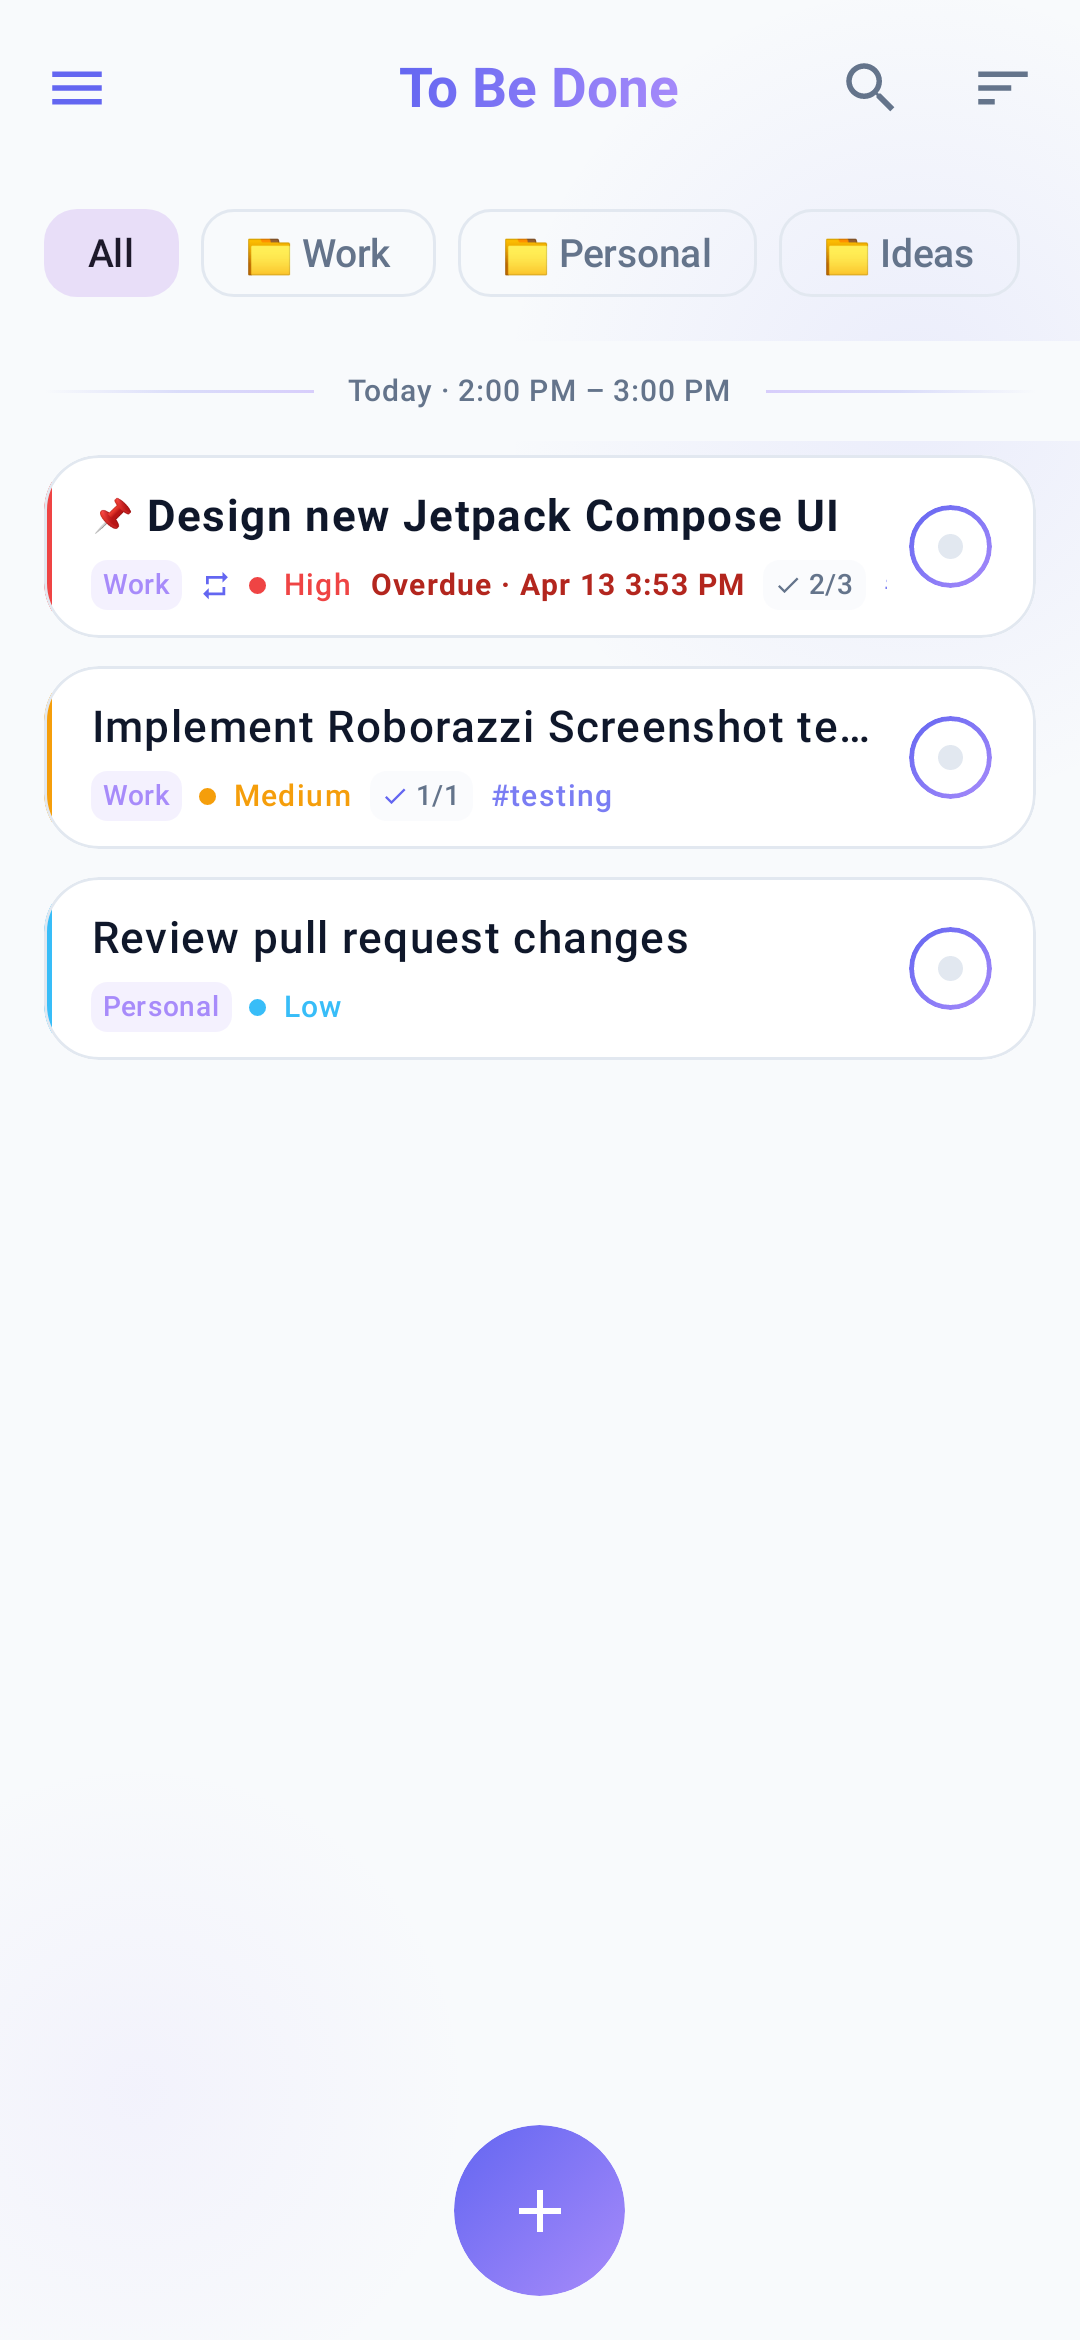
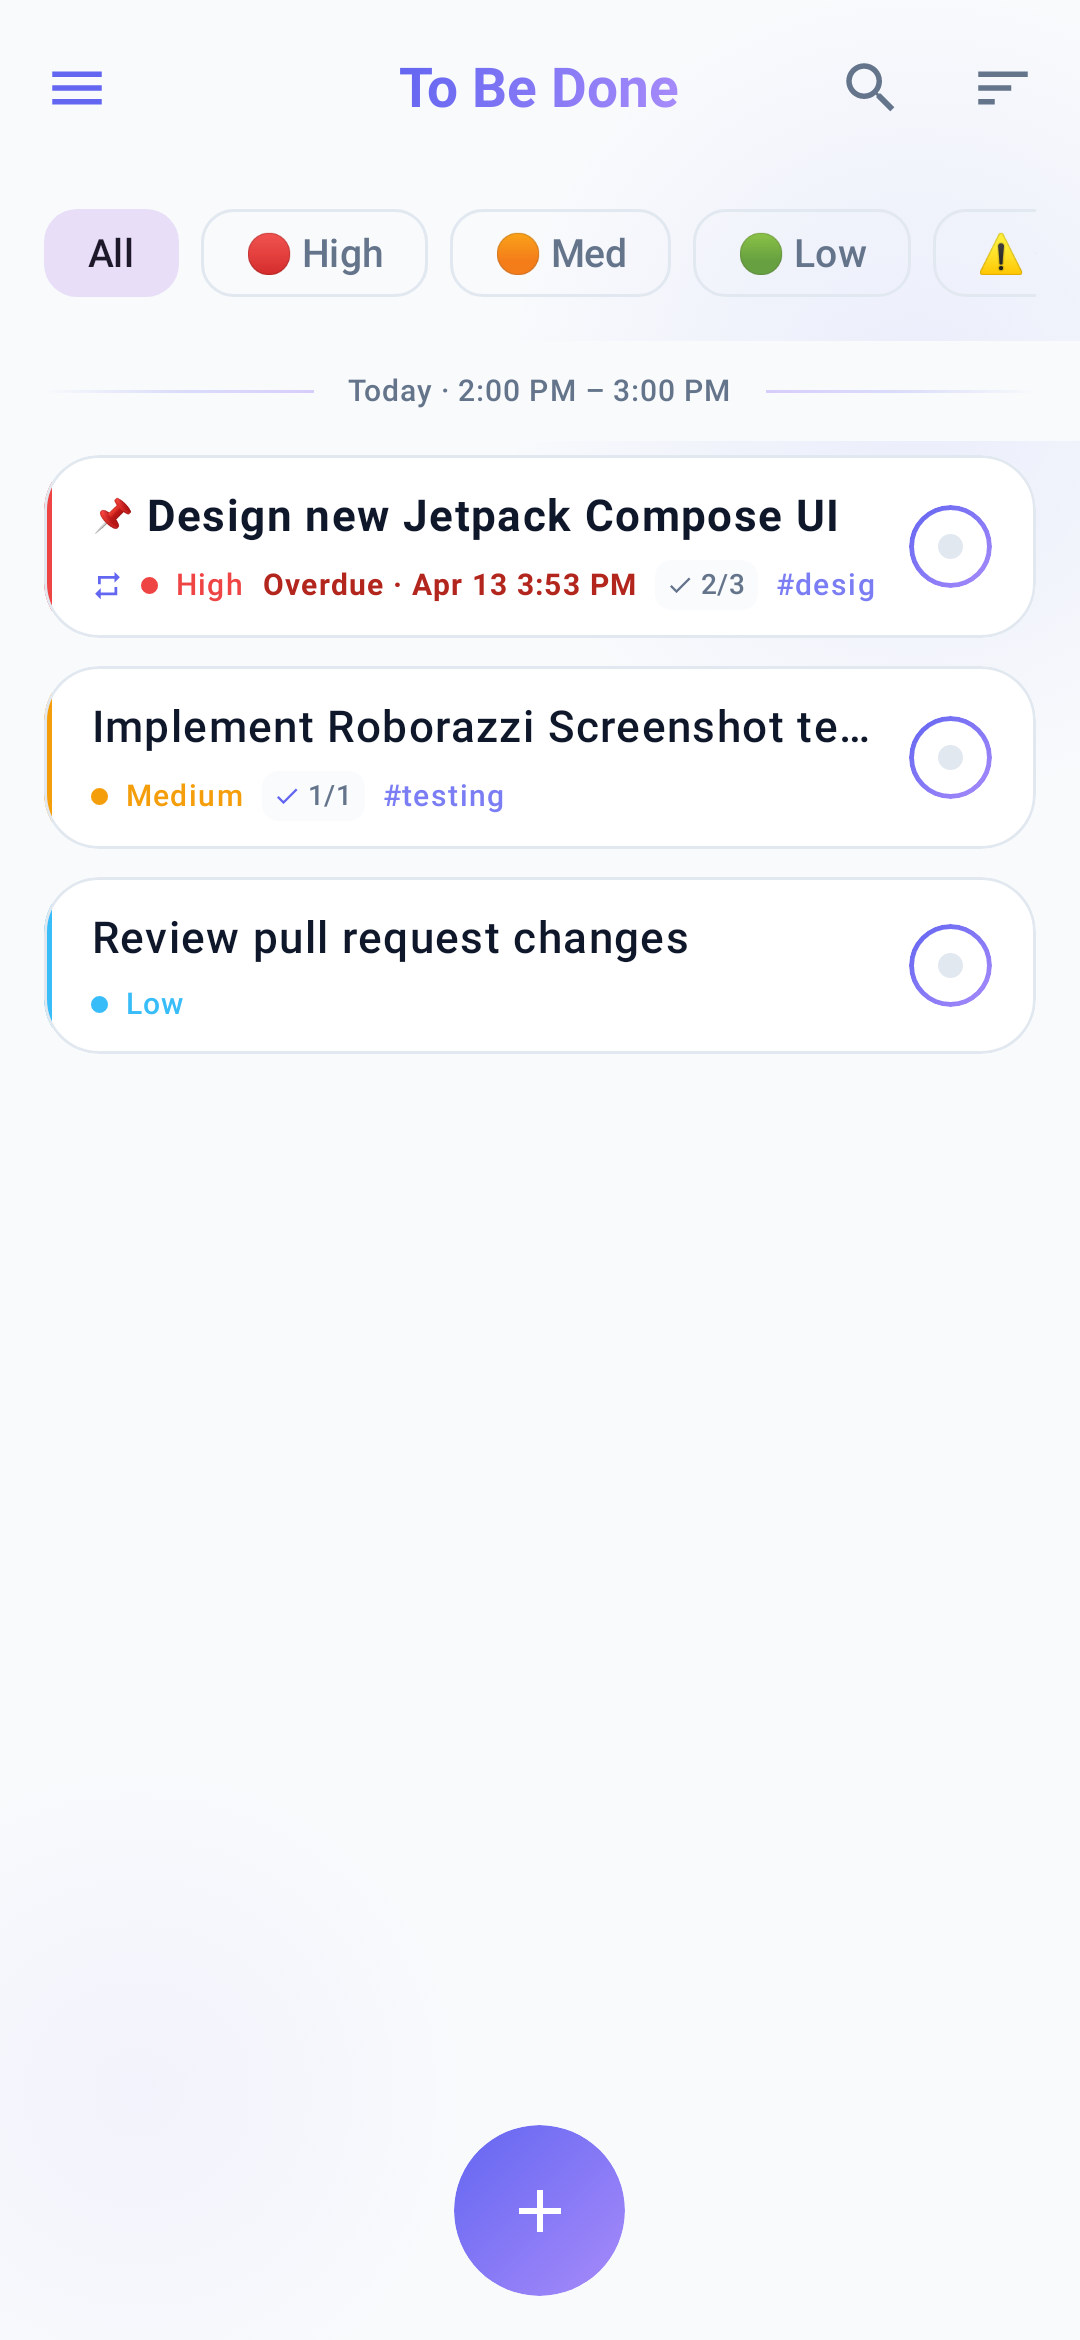
docs: update and shorten README for v3.0, add Toolbox & Debug screenshot tests

diff --git a/app/src/test/java/io/mns/base/app/ui/screenshot/ComposeScreenshotsTest.kt b/app/src/test/java/io/mns/base/app/ui/screenshot/ComposeScreenshotsTest.kt
@@ -392,5 +392,25 @@ class ComposeScreenshotsTest {
         }
         composeTestRule.onRoot().captureRoboImage("src/test/snapshots/images/todo_detail_readonly.png")
     }
+
+    @Test
+    fun testToolboxScreen() {
+        composeTestRule.setContent {
+            MTodoTheme(darkTheme = false) {
+                ToolboxScreen(onBack = {})
+            }
+        }
+        composeTestRule.onRoot().captureRoboImage("src/test/snapshots/images/toolbox_screen.png")
+    }
+
+    @Test
+    fun testDebugScreen() {
+        composeTestRule.setContent {
+            MTodoTheme(darkTheme = false) {
+                DebugScreen(onBack = {})
+            }
+        }
+        composeTestRule.onRoot().captureRoboImage("src/test/snapshots/images/debug_screen.png")
+    }
 }
 

diff --git a/README.md b/README.md
@@ -1,12 +1,12 @@
 # mTodo
 
-A modern, minimalist, and lightweight Todo app for Android built entirely with **Jetpack Compose** and **Material 3**.
+A modern, offline-first Todo and **100 Utilities Super App** for Android built with **Jetpack Compose** and **Material 3**.
 
 <p align="center">
   <img alt="GitHub Workflow Status" src="https://img.shields.io/github/actions/workflow/status/MehdiNosrati/mTodo/gradle-wrapper-validation.yml?branch=master&style=for-the-badge">
   <img alt="GitHub top language" src="https://img.shields.io/github/languages/top/MehdiNosrati/mTodo?style=for-the-badge">
   <img alt="GitHub release (latest by date)" src="https://img.shields.io/github/v/release/MehdiNosrati/mTodo?style=for-the-badge">
-  <img alt="Roborazzi Verified" src="https://img.shields.io/badge/Roborazzi-Screenshot%20Tests%20Verified-blue?style=for-the-badge">
+  <img alt="Roborazzi Verified" src="https://img.shields.io/badge/Roborazzi-20%20Screens%20Verified-blue?style=for-the-badge">
 </p>
 
 ---
@@ -14,117 +14,71 @@ A modern, minimalist, and lightweight Todo app for Android built entirely with *
 ## 📸 Screenshots
 
 <p align="center">
-  <img src="screens/home.png" width="270" alt="Home - Pinned Tasks, Categories, Voice Input & Multi-Select">
+  <img src="screens/home.png" width="270" alt="Home - Priority Filters, Pinned Tasks & Vertical Toolbox Tab">
   &nbsp;&nbsp;
-  <img src="screens/inline_add.png" width="270" alt="Inline Add Task UX & Quick Input">
+  <img src="screens/toolbox.png" width="270" alt="100 Utilities Super Toolbox">
   &nbsp;&nbsp;
-  <img src="screens/todo_detail.png" width="270" alt="Task Details - Subtasks, Recurrence, Category & Focus Timer">
+  <img src="screens/todo_detail.png" width="270" alt="Task Details - Subtasks, Recurrence & Focus Timer">
 </p>
 
 <p align="center">
+  <img src="screens/insights.png" width="270" alt="Insights - Daily Target, Streaks & Trends">
+  &nbsp;&nbsp;
   <img src="screens/done.png" width="270" alt="Done - Completed Tasks & Swipe Actions">
   &nbsp;&nbsp;
-  <img src="screens/insights.png" width="270" alt="Insights - Daily Goal Ring, Productivity Trends & Priority Stats">
-  &nbsp;&nbsp;
-  <img src="screens/settings.png" width="270" alt="Settings - Notification Status, Recycle Bin & Backup/Restore">
+  <img src="screens/settings.png" width="270" alt="Settings - Appearance, Reminders & Backup">
 </p>
 
 ---
 
-## ✨ Features
+## ✨ Highlights
 
-- **Modern Jetpack Compose UI**: 100% declarative UI built with Material 3, dynamic cards, fluid spring physics, and soft indigo/violet accents.
-- **Interactive Home Screen Widget**: Check off tasks directly from your home launcher via broadcast triggers without opening the app, plus a quick "Add" shortcut.
-- **Recurring / Repeating Tasks**: Automatically schedule repeating tasks (**Daily**, **Weekdays**, **Weekly**, **Monthly**) upon completion with auto-resetting checklist subtasks.
-- **Voice-to-Text Task Creation**: Dedicated speech recognizer microphone button in the top app bar for effortless hands-free task creation.
-- **Category System**: Organize tasks by category (**Personal**, **Work**, **Shopping**, **Health**, **Finance**, **Ideas**) with horizontal filter chips and color-coded badges.
-- **Pinned Tasks**: Anchor urgent or high-priority tasks to the top of your list with a dedicated pinned badge.
-- **Batch Multi-Select Mode**: Long-press any task to enter contextual selection mode to batch complete or batch delete multiple items in one tap.
-- **30-Day Recycle Bin & Trash**: Accidental deletions are protected with soft-deletes; view, restore individual items, or purge permanently, with automated cleanup after 30 days.
-- **Daily Goal Tracker & Streak Ring**: Set custom daily completion targets (1–10 tasks/day) and track your daily progress ring and consistency streak in Insights.
-- **Focus Mode (Pomodoro Timer)**: 25-minute distraction-free focus timer directly from the task detail screen to help power through demanding tasks.
-- **Actionable Notification Reminders**: Android 13+ runtime permission guard and exact alarm scheduling (`USE_EXACT_ALARM`) with interactive notification action buttons: `[✓ Done]`, `[⏰ +15m]`, `[⏰ +1h]`.
-- **Inline Task Creation**: Fast and non-intrusive inline drafting card at the top of the list — tap Enter or click away to save immediately.
-- **Subtasks & Checklist System**: Break down complex tasks into subtasks with toggle checkboxes, interactive progress bar, and badge indicators on list rows.
-- **Tag & Priority Filter Carousel + Search**: Instantly filter tasks by category, tag, priority (High, Medium, Low), or overdue status with horizontal filter chips and real-time search.
-- **Swipe-to-Action with Undo Snackbar**: Smooth gestures on active tasks (swipe right to complete, swipe left to delete) and done tasks (swipe right to restore, swipe left to delete) with an instant Undo snackbar.
-- **Flexible Task Sorting**: Sort tasks on the fly or choose a global default in settings: Creation Date, Priority (High &rarr; Low), Due Date, or Alphabetical.
-- **Data Backup & Restore**: Full local JSON backup and restore via Android's Storage Access Framework (SAF) with merge or overwrite options.
-- **Smart Date Segmentation**: Automatically groups active tasks into **Today**, **Yesterday**, and **Older** sections with sticky headers.
-- **Task Statistics & Completion Insights**: Real-time productivity metrics, completion rates, daily consistency streaks, 7-day visual activity bar chart, and priority distribution breakdown.
-- **Edge-to-Edge Dark & Light Mode**: Seamless theme switching with system-default and user-selected appearance options, with clear status bar contrast in both modes.
-- **Multilingual Support**: Fully localized in English (`en`) and Persian (`fa`).
-- **Offline-First Persistence**: Local Room SQLite storage (v5 migration) with reactive Kotlin `Flow` observables and zero cloud tracking.
-- **Target SDK 36**: Optimized for Android 16 with security and performance improvements.
-- **Minimal Download Footprint**: Zero external bloatware libraries, strictly under 6 MB APK size.
+### 📋 Distraction-Free Task Management
+- **High-Visibility Priority Filters**: Instant filtering by `🔴 High`, `🟠 Med`, `🟢 Low`, and `⚠ Overdue`.
+- **Pinned Tasks & Inline Add**: Anchor urgent tasks to top; create tasks quickly with inline drafting.
+- **Subtasks & Checklists**: Break down tasks with interactive progress indicators.
+- **Smart Recurrence**: Auto-repeating tasks (`Daily`, `Weekdays`, `Weekly`, `Monthly`).
+- **Focus Timer**: Built-in 25-minute Pomodoro timer in task details.
+- **Actionable Notifications**: Tray buttons (`✓ Done`, `⏰ +15m`, `⏰ +1h`) with exact alarms.
+- **Launcher Widget & Multi-Select**: Check off tasks from your home screen or batch-manage items.
+- **30-Day Recycle Bin**: Safe soft-deletion with instant recovery or automated 30-day purge.
+
+### 🛠 100 Offline Utilities Super Toolbox
+- **Quick-Access Vertical Edge Tab**: Sleek 90° rotated side tab for 1-tap Toolbox access anywhere.
+- **100 Interactive Tools (20 per domain)**:
+  - **Math & Finance**: Calculators, Unit Converters (Length, Weight, Temp, etc.), Tip Splitter, Loan EMI, Margins.
+  - **Text & Code**: Word Counter, Case Converter, Hashes (MD5/SHA), Base64, UUIDs, JSON Formatter, Markdown.
+  - **Time & Calendar**: Precision Stopwatch, Multi-Timer, Interval HIIT, World Clock, Moon Phase, Tap BPM.
+  - **Hardware & System**: Screen Lantern, Flashlight, Battery Telemetry, Sensors, Level, Refresh Rate, Volume.
+  - **Everyday & Health**: Coin Flip, Dice, Random Numbers, QR & Barcode Generator, BMI, Breathing Guide.
+
+### 🔒 Private & Offline-First
+- 100% local Room SQLite database with reactive Kotlin `Flow` observables.
+- Zero tracking, zero third-party telemetry, full JSON export & restore via SAF.
+- Android 15 optimized (Target SDK 36), minimal battery impact, and under 10 MB bundle size.
 
 ---
 
-## 🛠 Tech Stack & Architecture
+## 🛠 Tech Stack
 
-- **UI Framework**: [Jetpack Compose](https://developer.android.com/jetpack/compose) + [Material 3](https://m3.material.io/)
+- **UI**: [Jetpack Compose](https://developer.android.com/jetpack/compose) + [Material 3](https://m3.material.io/)
 - **Architecture**: MVVM / Clean Architecture (UI &rarr; ViewModel &rarr; Repository &rarr; Room DAO)
-- **Asynchronous / Reactive**: Kotlin Coroutines & `Flow` / `LiveData`
-- **Dependency Injection**: [Koin](https://insert-koin.io/)
-- **Local Storage**: [Room Database](https://developer.android.com/training/data-storage/room) (SQLite v5 with automated migration)
-- **Screenshot & Regression Testing**: [Roborazzi](https://github.com/takahirom/roborazzi) + Robolectric Native Graphics
-- **Build System**: Gradle 8.9, Android Gradle Plugin 8.7.3, Kotlin 2.0.21, and Gradle Version Catalog (`libs.versions.toml`)
+- **Concurrency**: Kotlin Coroutines & `Flow`
+- **DI**: [Koin](https://insert-koin.io/)
+- **Storage**: [Room Database](https://developer.android.com/training/data-storage/room) (SQLite v5)
+- **Testing**: [Roborazzi](https://github.com/takahirom/roborazzi) (Native Graphics) + JUnit4 + MockK
 
 ---
 
-## 🧪 Running Tests
-
-Ensure your `JAVA_HOME` points to Java 17+:
+## 🧪 Testing
 
 ```bash
-export JAVA_HOME="/Applications/Android Studio.app/Contents/jbr/Contents/Home"
-```
-
-### Run Unit & Integration Tests:
-```bash
+# Run 67 automated unit & functional tests
 ./gradlew testDebugUnitTest
-```
 
-### Verify Roborazzi Screenshot Goldens:
-```bash
+# Verify 20 Roborazzi screenshot goldens
 ./gradlew verifyRoborazziDebug
-```
 
-### Update Baseline Screenshot Goldens:
-```bash
+# Re-record golden screenshots
 ./gradlew recordRoborazziDebug
 ```
-
----
-
-## 🗺 Roadmap
-
-- [x] Modernize UI with Jetpack Compose & Material 3
-- [x] Basic CRUD on tasks
-- [x] Inline task drafting UX
-- [x] Priority system (High / Med / Low / None)
-- [x] Due dates, times, and tags metadata
-- [x] Dedicated task detail and edit screen
-- [x] Time period segmentation (Today / Yesterday / Older)
-- [x] Task statistics & completion insights + priority distribution
-- [x] Dark & Light themes with high-contrast status bars
-- [x] Multilingual support: `en`, `fa`
-- [x] Tag & Priority filter carousel + real-time search
-- [x] Swipe-to-Action with Undo snackbars
-- [x] Sorting (Date, Priority, Due Date, Alphabetical)
-- [x] Subtasks / checklist support with progress badges
-- [x] Due date reminders & system notifications
-- [x] Native JSON backup & restore
-- [x] Interactive home screen app widget (toggle done directly from launcher)
-- [x] Recurring / repeating tasks (Daily, Weekdays, Weekly, Monthly)
-- [x] Voice input via SpeechRecognizer
-- [x] Category system (Personal, Work, Shopping, Health, Finance, Ideas)
-- [x] Pinned tasks support
-- [x] Batch multi-select actions (bulk complete/delete)
-- [x] 30-day Recycle Bin / Trash with restore & auto-purge
-- [x] Daily completion goal ring & streak tracking
-- [x] Pomodoro focus timer (25 min)
-- [x] Actionable notification buttons (`Done`, `+15m`, `+1h`) & Android 13+ runtime permissions
-- [x] Automated unit, integration, and Room database test coverage
-- [x] Roborazzi screenshot testing suite
-- [x] Target SDK 36 compliance
